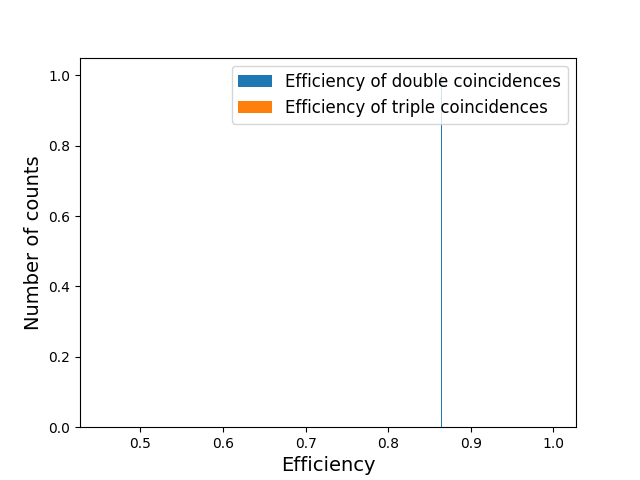
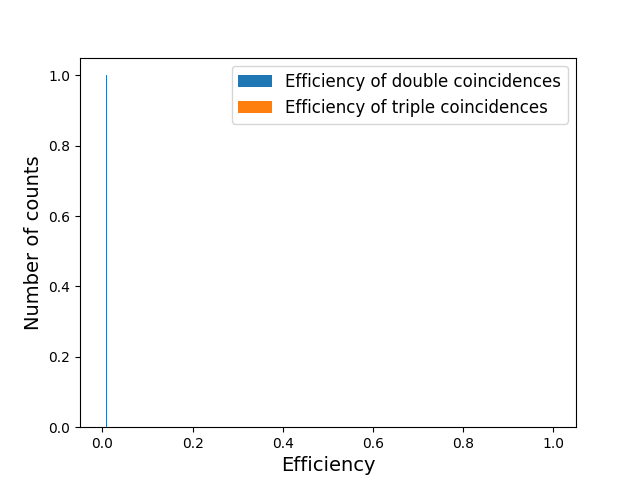
test of alpha particle

diff --git a/MCTDCRcode/main_MCTDCR.py b/MCTDCRcode/main_MCTDCR.py
@@ -21,8 +21,10 @@ N=1 # number of simulated decay (MC trials)
 
 Rad=["Am-241"]       # list of radionuclides
 pmf_1=[1.0]         # relative abondance (pmf)
-#if sum(pmf_1 != 1): print("warning p not equal to 1")
-
+if np.size(pmf_1) > 1:
+    if sum(pmf_1 !=1): print("warning p not equal to 1")
+elif pmf_1[0] != 1: print("warning")
+rho = 0.866         #density of absorber (Toluene) g/cm3
 
 kB = 0.01                  # Birks constant in cm/MeV
 L = 0.0056                  # the free parameter /MeV-1
@@ -141,7 +143,7 @@ for i in range(N): # Main Loop
         if p == "alpha":
             energy_vec[i] = 0
             for j in e_discrete:
-                energy_vec[i] += delta_e*1e-3/(1+kB*tl.stoppingpowerA(j,'alpha_toulene.txt',0.866))
+                energy_vec[i] += delta_e*1e-3/(1+kB*tl.stoppingpowerA(j,'alpha_toulene.txt',rho))
         if p == "electron":
             energy_vec[i] = 0
             for j in e_discrete:
